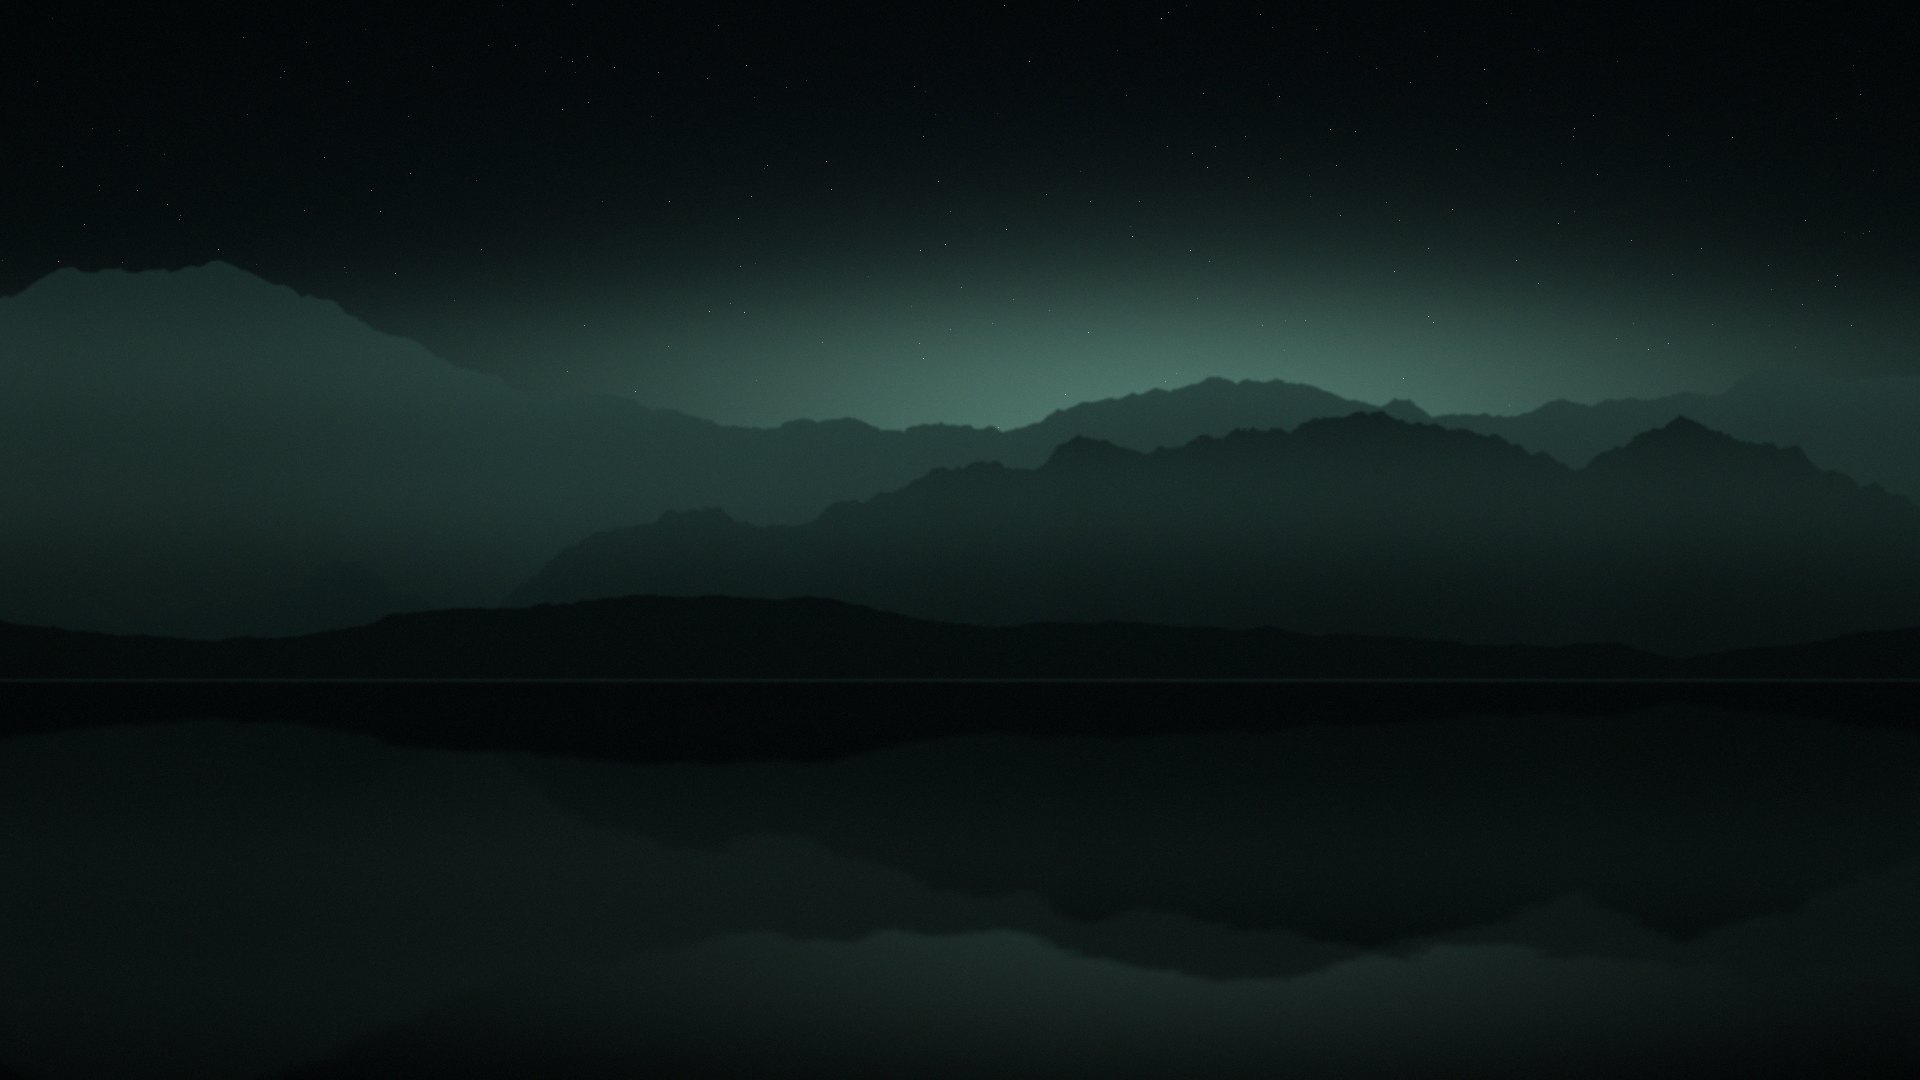
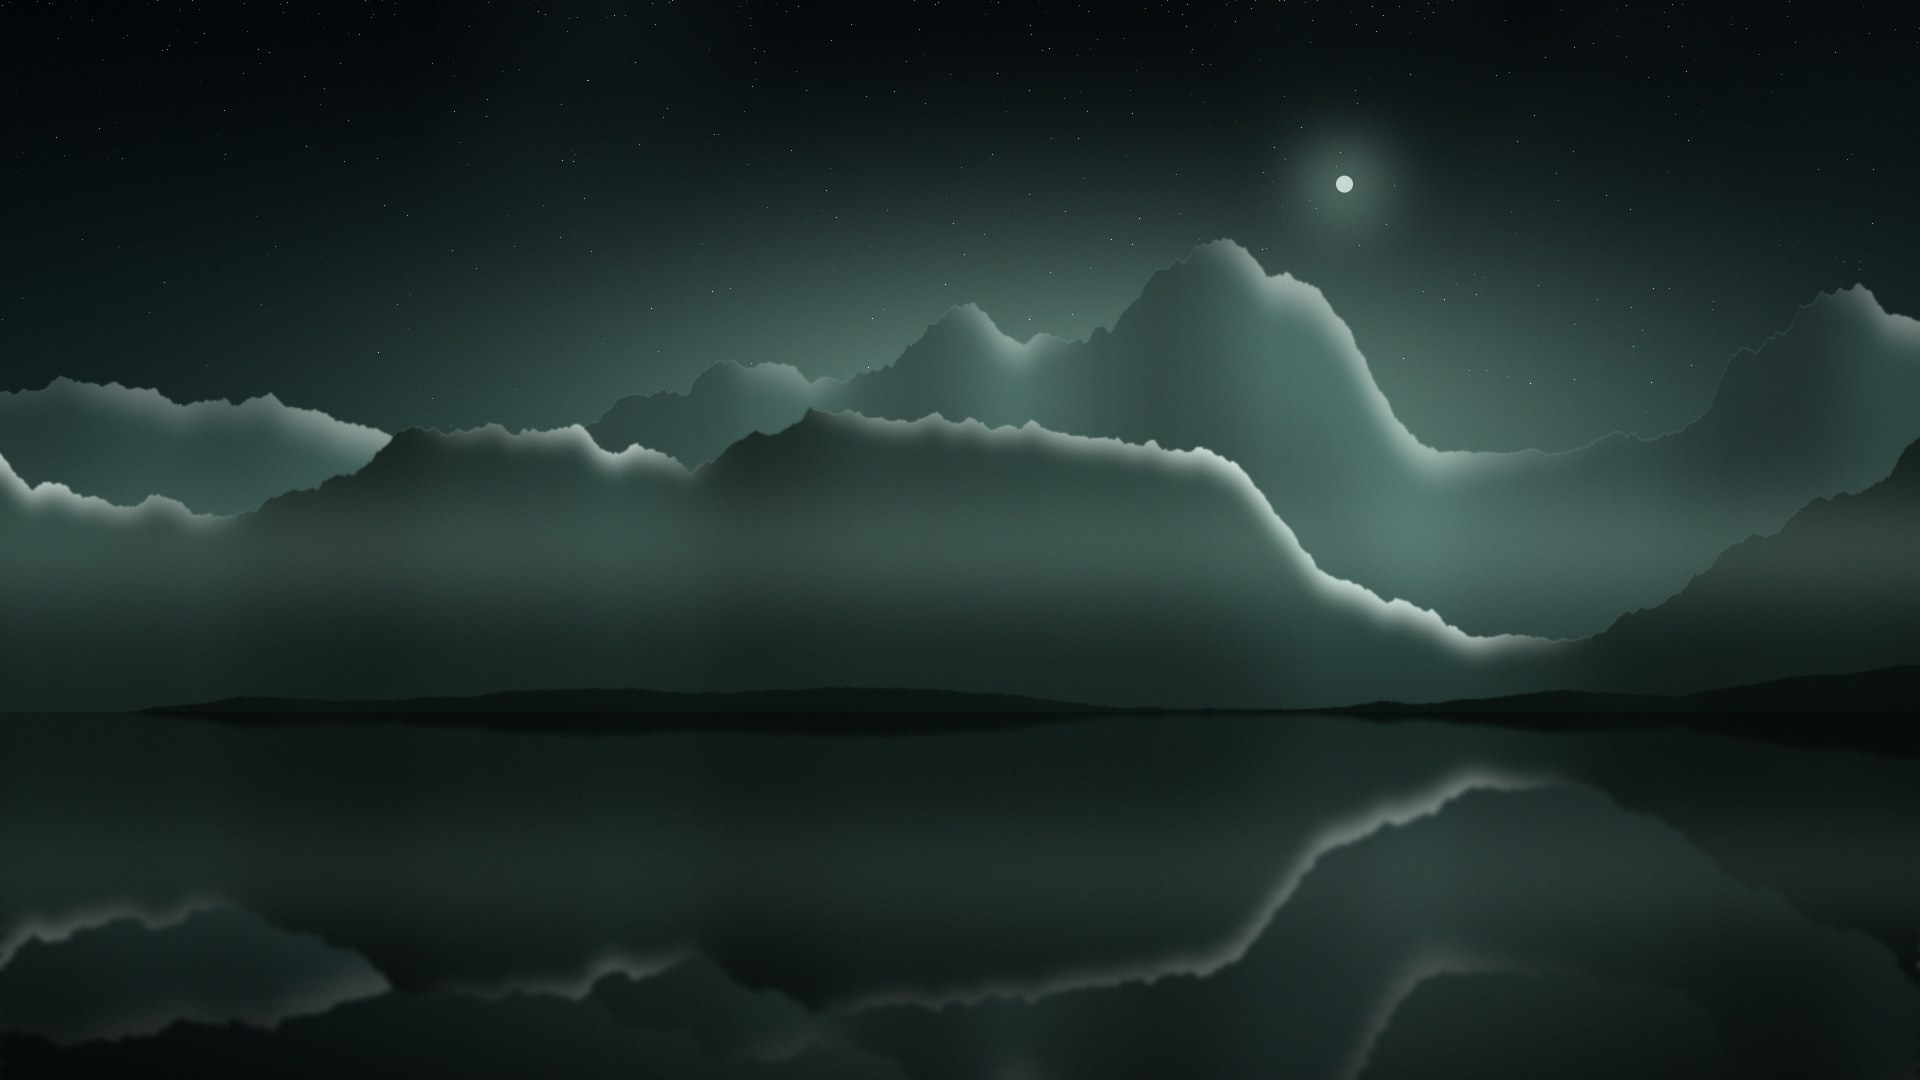
Liquid-glass clock digits and cleaner lit mountain wallpapers
The clock digits are now real glyph outlines filled with the frosted wallpaper (like the dock),
with a body tint, specular highlight, bright rim and soft shadow. New landscape renderer
(scripts/wallpapers.py) with soft lighting, snow, haze and a front ridge that rises behind the clock.

Claude-Session: https://claude.ai/code/session_01SVg1S1CaX28qFZtbsWGYU7

diff --git a/app/src/main/java/com/fares/glass/ui/GlassClock.kt b/app/src/main/java/com/fares/glass/ui/GlassClock.kt
@@ -1,0 +1,118 @@
+package com.fares.glass.ui
+
+import android.graphics.BlurMaskFilter
+import android.graphics.Matrix
+import android.graphics.Paint
+import android.graphics.RectF
+import android.graphics.Typeface
+import androidx.compose.foundation.layout.Box
+import androidx.compose.foundation.layout.size
+import androidx.compose.runtime.Composable
+import androidx.compose.runtime.getValue
+import androidx.compose.runtime.mutableStateOf
+import androidx.compose.runtime.remember
+import androidx.compose.runtime.setValue
+import androidx.compose.ui.Modifier
+import androidx.compose.ui.draw.drawWithCache
+import androidx.compose.ui.geometry.Offset
+import androidx.compose.ui.graphics.Brush
+import androidx.compose.ui.graphics.Color
+import androidx.compose.ui.graphics.FilterQuality
+import androidx.compose.ui.graphics.asComposePath
+import androidx.compose.ui.graphics.drawscope.Stroke
+import androidx.compose.ui.graphics.drawscope.clipPath
+import androidx.compose.ui.graphics.drawscope.drawIntoCanvas
+import androidx.compose.ui.graphics.nativeCanvas
+import androidx.compose.ui.layout.onGloballyPositioned
+import androidx.compose.ui.layout.positionInRoot
+import androidx.compose.ui.platform.LocalContext
+import androidx.compose.ui.platform.LocalDensity
+import androidx.compose.ui.unit.IntOffset
+import androidx.compose.ui.unit.dp
+import androidx.compose.ui.unit.sp
+import kotlin.math.roundToInt
+
+/**
+ * Lock-screen clock made of Liquid Glass. The digits are real outlines (tall, stretched rounded
+ * numerals); inside each one we draw the same pre-blurred wallpaper the dock uses, lined up with
+ * the screen, then a light body tint, a specular highlight and a bright rim, plus a soft shadow.
+ */
+@Composable
+fun GlassClock(time: String, backdrop: Backdrop, modifier: Modifier = Modifier) {
+    val context = LocalContext.current
+    val density = LocalDensity.current
+    val face = remember {
+        runCatching { Typeface.createFromAsset(context.assets, "fonts/Clock-Bold.ttf") }.getOrDefault(Typeface.DEFAULT_BOLD)
+    }
+    val stretch = 1.65f
+    val glyphs = remember(time, density.density) {
+        val paint = Paint(Paint.ANTI_ALIAS_FLAG).apply {
+            typeface = face
+            textSize = with(density) { 108.sp.toPx() }
+            letterSpacing = -0.01f
+        }
+        val p = android.graphics.Path()
+        paint.getTextPath(time, 0, time.length, 0f, 0f, p)
+        p.transform(Matrix().apply { postScale(1f, stretch) })
+        val b = RectF()
+        @Suppress("DEPRECATION") p.computeBounds(b, true)
+        p.offset(-b.left, -b.top)
+        Triple(p, b.width(), b.height())
+    }
+    val (native, w, h) = glyphs
+    val path = remember(native) { native.asComposePath() }
+    var origin by remember { mutableStateOf(Offset.Zero) }
+    val wDp = with(density) { w.toDp() }
+    val hDp = with(density) { h.toDp() }
+
+    Box(
+        modifier
+            .size(wDp, hDp)
+            .onGloballyPositioned { origin = it.positionInRoot() }
+            .drawWithCache {
+                val rim = Brush.linearGradient(
+                    0f to Color.White.copy(alpha = 0.98f),
+                    0.3f to Color.White.copy(alpha = 0.40f),
+                    0.65f to Color.White.copy(alpha = 0.20f),
+                    1f to Color.White.copy(alpha = 0.75f),
+                    start = Offset.Zero, end = Offset(size.width, size.height),
+                )
+                val body = Brush.verticalGradient(
+                    0f to Color.White.copy(alpha = 0.42f),
+                    0.5f to Color.White.copy(alpha = 0.20f),
+                    1f to Color.White.copy(alpha = 0.30f),
+                )
+                val specular = Brush.radialGradient(
+                    listOf(Color.White.copy(alpha = 0.38f), Color.Transparent),
+                    center = Offset(size.width * 0.28f, 0f), radius = size.width * 0.6f,
+                )
+                val shadow = Paint(Paint.ANTI_ALIAS_FLAG).apply {
+                    color = android.graphics.Color.argb(90, 0, 0, 0)
+                    maskFilter = BlurMaskFilter(16.dp.toPx(), BlurMaskFilter.Blur.NORMAL)
+                }
+                val drop = 7.dp.toPx()
+                val rimWidth = 1.8.dp.toPx()
+                onDrawBehind {
+                    drawIntoCanvas { c ->
+                        c.nativeCanvas.save()
+                        c.nativeCanvas.translate(0f, drop)
+                        c.nativeCanvas.drawPath(native, shadow)
+                        c.nativeCanvas.restore()
+                    }
+                    clipPath(path) {
+                        backdrop.frosted?.let { img ->
+                            drawImage(
+                                img,
+                                dstOffset = IntOffset(-origin.x.roundToInt(), -origin.y.roundToInt()),
+                                dstSize = backdrop.screen,
+                                filterQuality = FilterQuality.Low,
+                            )
+                        }
+                        drawRect(body)
+                        drawRect(specular)
+                    }
+                    drawPath(path, rim, style = Stroke(rimWidth))
+                }
+            },
+    )
+}

diff --git a/app/src/main/java/com/fares/glass/ui/Overlays.kt b/app/src/main/java/com/fares/glass/ui/Overlays.kt
@@ -158,7 +158,7 @@ fun rememberClock(now: Long): Pair<String, String> {
 
 /** Home header: greeting, large time and date. */
 @Composable
-fun HomeHeader(name: String, modifier: Modifier) {
+fun HomeHeader(name: String, backdrop: Backdrop, modifier: Modifier) {
     val now = rememberNow()
     val hour = remember(now / 60000) { java.util.Calendar.getInstance().get(java.util.Calendar.HOUR_OF_DAY) }
     val (plain, named) = when (hour) {
@@ -170,32 +170,9 @@ fun HomeHeader(name: String, modifier: Modifier) {
     val (time, date) = rememberClock(now)
     // Lock-screen style: a quiet date line over a tall, stretched rounded clock made of glass
     // (translucent frosted fill, bright rim). The wallpaper's front mountains are drawn over it.
-    val stretch = 1.65f
-    val clockStyle = TextStyle(
-        fontFamily = Typo.clock, fontWeight = FontWeight.Bold, fontSize = 108.sp, letterSpacing = (-1).sp,
-        lineHeight = 108.sp, lineHeightStyle = LineHeightStyle(LineHeightStyle.Alignment.Center, LineHeightStyle.Trim.Both),
-    )
     Column(modifier, horizontalAlignment = Alignment.CenterHorizontally) {
         BasicText(date, style = txt(white.copy(alpha = 0.92f), 19.sp, FontWeight.SemiBold).copy(shadow = headerShadow, letterSpacing = 0.2.sp))
-        Box(
-            Modifier.layout { measurable, constraints ->
-                val p = measurable.measure(constraints)
-                layout(p.width, (p.height * stretch).roundToInt()) {
-                    p.placeWithLayer(0, 0) { scaleY = stretch; transformOrigin = TransformOrigin(0.5f, 0f) }
-                }
-            },
-            contentAlignment = Alignment.Center,
-        ) {
-            BasicText(time, style = clockStyle.copy(
-                brush = Brush.verticalGradient(listOf(
-                    Color(0xFFF6FBF9).copy(alpha = 0.93f), Color(0xFFE0EEE9).copy(alpha = 0.80f), Color(0xFFC4DAD2).copy(alpha = 0.70f),
-                )),
-            ))
-            BasicText(time, style = clockStyle.copy(
-                brush = Brush.verticalGradient(listOf(Color.White, Color.White.copy(alpha = 0.18f), Color.White.copy(alpha = 0.55f))),
-                drawStyle = Stroke(width = 1.8f),
-            ))
-        }
+        GlassClock(time, backdrop, Modifier.padding(top = 10.dp))
     }
 }
 

diff --git a/app/src/main/java/com/fares/glass/ui/HomeScreen.kt b/app/src/main/java/com/fares/glass/ui/HomeScreen.kt
@@ -267,7 +267,7 @@ fun HomeScreen(
         val dockAlpha by animateFloatAsState(if (row == 0) 1f else 0f, tween(300), label = "dock")
         val headerAlpha by animateFloatAsState(if (row == 0) 1f else 0f, tween(300), label = "header")
         if (headerAlpha > 0f) {
-            HomeHeader(repo.userName, Modifier.fillMaxWidth().padding(top = 62.dp).graphicsLayer { alpha = headerAlpha })
+            HomeHeader(repo.userName, backdrop, Modifier.fillMaxWidth().padding(top = 62.dp).graphicsLayer { alpha = headerAlpha })
             if (state.mode != Mode.Control) {
                 TopBar(
                     backdrop, top, if (state.mode == Mode.Top) state.topIndex else -1,

diff --git a/scripts/wallpapers.py b/scripts/wallpapers.py
@@ -1,0 +1,133 @@
+"""Original landscape wallpapers: lit fractal mountains, snow, haze, stars, still-water reflections.
+Also writes a cut-out of the front mountains (for the clock depth effect)."""
+import numpy as np, sys
+from PIL import Image, ImageFilter
+W,H=1920,1080
+yy,xx=np.mgrid[0:H,0:W].astype(np.float32)
+
+def col(h): h=h.lstrip('#'); return np.array([int(h[i:i+2],16) for i in (0,2,4)],np.float32)
+def mix(a,b,t): return a+(b-a)*t
+
+def fbm(seed,scale,oct=6,gain=0.5,w=W,h=H):
+    rng=np.random.default_rng(seed); out=np.zeros((h,w),np.float32); amp=1; tot=0; s=scale
+    for o in range(oct):
+        gw,gh=max(2,int(w/s)+2),max(2,int(h/s)+2)
+        g=rng.random((gh,gw)).astype(np.float32)
+        im=Image.fromarray(g).resize((w,h),Image.BICUBIC)
+        out+=np.asarray(im)*amp; tot+=amp; amp*=gain; s/=2
+    return out/tot
+
+def ridge_line(seed,base,amp,rough=0.52,peaks=1.0):
+    rng=np.random.default_rng(seed); n=2**10+1; y=np.zeros(n)
+    y[0],y[-1]=rng.normal(0,1,2); step=n-1; sc=1.0
+    while step>1:
+        h=step//2
+        for i in range(h,n-1,step): y[i]=(y[i-h]+y[i+h])/2+rng.normal(0,sc)
+        step=h; sc*=rough
+    y=(y-y.min())/(y.max()-y.min()+1e-9); y=y**peaks
+    return np.interp(np.linspace(0,n-1,W),np.arange(n),y).astype(np.float32)*-amp*H+base*H
+
+def render(name, P, seed, fg_layer):
+    rng=np.random.default_rng(seed)
+    t=(yy/H)[...,None]
+    sky=mix(col(P['sky0']),col(P['sky1']),np.clip(t/0.62,0,1)**1.3)
+    # glow (sun / moon haze)
+    gx,gy,gr,gs=P['glow']
+    d=np.sqrt(((xx-gx*W)/W)**2+((yy-gy*H)/H*1.6)**2)
+    sky=sky+(col(P['glowc'])-sky)*(np.exp(-(d/gr)**2)*gs)[...,None]
+    # soft clouds
+    if P.get('clouds',0)>0:
+        c=fbm(seed+5,520,5); c=np.clip((c-0.55)*2.2,0,1)*np.clip(1-yy/(H*0.55),0,1)
+        sky=sky+(col(P['cloudc'])-sky)*(c*P['clouds'])[...,None]
+    img=sky.copy()
+    if P.get('stars',0):
+        n=P['stars']; sx=rng.integers(0,W,n); sy=(rng.random(n)**1.8*H*0.5).astype(int); b=rng.uniform(30,190,n)
+        for x,y,v in zip(sx,sy,b): img[y,x]+=v; 
+        img=np.minimum(img,255)
+    if P.get('moon'):
+        mx,my,mr=P['moon']; md=np.sqrt((xx-mx*W)**2+(yy-my*H)**2)
+        img=img+(np.array([235,240,236],np.float32)-img)*np.clip(mr-md,0,1)[...,None]
+        img=img+(col(P['glowc'])-img)*(np.exp(-(md/(mr*6))**2)*0.35)[...,None]
+    light=np.array(P['light'],np.float32); light/=np.linalg.norm(light)
+    ridges=[]
+    nL=len(P['layers'])
+    for i,L in enumerate(P['layers']):
+        r=ridge_line(seed*13+i,L['base'],L['amp'],L.get('rough',0.52),L.get('peaks',1.0))
+        if L.get('centre'): r=r-L['centre']*H*np.exp(-((np.arange(W)/W-0.5)/0.16)**2).astype(np.float32)
+        ridges.append(r)
+        inside=yy>=r[None,:]
+        depth=np.clip((yy-r[None,:])/(H*max(L['amp'],0.05)),0,4)
+        # clean faceted light: faces turned towards the light are brighter, fading with depth
+        k_=np.exp(-np.arange(-90,91)**2/(2*30.0**2)); k_/=k_.sum(); sl=np.gradient(np.convolve(np.pad(r,90,mode='edge'),k_,mode='valid'))*3
+        face=np.clip(-sl*light[0]*0.9,-1,1)[None,:]
+        lam=np.clip(0.5+face*np.exp(-depth*1.4),0,1)
+        lam=np.asarray(Image.fromarray((lam*255).astype(np.uint8)).filter(ImageFilter.GaussianBlur(26)),np.float32)/255
+        base=col(L['c'])
+        lit=base*(0.62+0.75*lam[...,None])*(1-0.25*np.clip(depth,0,1)[...,None])
+        if L.get('snow',0)>0:
+            band=np.exp(-depth/(L['snow']*0.35))
+            sn=np.clip(band*(0.35+lam)*1.3-0.55,0,1)
+            sn=np.asarray(Image.fromarray((sn*255).astype(np.uint8)).filter(ImageFilter.GaussianBlur(8)),np.float32)/255
+            lit=mix(lit,col(P['snowc'])*(0.55+0.55*lam[...,None]),sn[...,None])
+        # rim light on the crest from the glow
+        crest=np.exp(-((yy-r[None,:])/1.6)**2)*L.get('rim',0.0)*0.6
+        lit=lit+(col(P['glowc'])-lit)*crest[...,None]
+        # atmospheric perspective: far layers fade into the sky colour behind them
+        haze=L.get('haze',0)
+        lit=mix(lit,sky,haze*np.clip(1-depth*0.6,0.4,1)[...,None])
+        m=np.asarray(Image.fromarray((inside*255).astype(np.uint8)).filter(ImageFilter.GaussianBlur(0.9)),np.float32)[...,None]/255
+        img=img*(1-m)+lit*m
+        # mist pooling in the valley behind the next layer
+        if L.get('mist',0)>0:
+            mb=np.exp(-((yy-(r.mean()+H*0.05))/(H*0.06))**2)*(0.6+0.4*fbm(seed+i*7,700,2))*L['mist']*1.1
+            img=img+(col(P['mistc'])-img)*np.clip(mb,0,1)[...,None]
+    if P.get('water'):
+        hz=int(P['water']*H)
+        top=img[:hz].copy(); refl=top[::-1][:H-hz]
+        out=np.empty_like(refl); ph=rng.uniform(0,6)
+        for row in range(refl.shape[0]):
+            k=row/refl.shape[0]
+            out[row]=np.roll(refl[row],int(np.sin(row*0.35+ph)*(0.3+3*k)),axis=0)
+        out=np.asarray(Image.fromarray(np.clip(out,0,255).astype(np.uint8)).filter(ImageFilter.GaussianBlur(2.6)),np.float32)
+        k=np.linspace(0,1,out.shape[0],dtype=np.float32)[:,None,None]
+        out=mix(out*0.78,col(P['sky0'])*0.6,np.clip(k*0.9,0,1)*0.55)
+        # faint ripple sparkle
+        img[hz:]=out
+    # vignette + grain
+    v=1-0.42*(((xx/W-0.5)**2)*1.2+((yy/H-0.42)**2)*1.6)
+    img=img*np.clip(v,0.5,1)[...,None]+rng.normal(0,1.8,img.shape)
+    out8=np.clip(img,0,255).astype(np.uint8)
+    Image.fromarray(out8).save(name+'.jpg',quality=88,optimize=True)
+    r=ridges[fg_layer]
+    m=Image.fromarray(((yy>=r[None,:]-0.5)*255).astype(np.uint8)).filter(ImageFilter.GaussianBlur(1.2))
+    rgba=Image.fromarray(out8).convert('RGBA'); rgba.putalpha(m)
+    rgba.resize((1280,720),Image.LANCZOS).save(name+'_fg.webp','WEBP',quality=84,method=6)
+    print(name,'front ridge: top',int(r.min()),'centre min',int(r[700:1220].min()))
+
+PRESETS={
+ 'lake':dict(sky0='#04090b',sky1='#1d3a35',glowc='#a8d8c8',glow=(0.58,0.40,0.32,0.55),cloudc='#3e5f58',clouds=0.25,
+   stars=500,moon=(0.70,0.17,9),light=(-0.6,-0.7,0.5),snowc='#e8f2ee',mistc='#9fc7bb',water=0.66,
+   layers=[dict(c='#3c5a55',base=0.42,amp=0.20,snow=0.55,haze=0.45,rim=0.5,detail=70,peaks=1.3),
+           dict(c='#20332f',base=0.60,amp=0.20,snow=0.35,haze=0.12,rim=0.35,mist=0.25,detail=90,peaks=1.2,centre=0.17),
+           dict(c='#0d1715',base=0.665,amp=0.05,haze=0.0,detail=60)]),
+ 'ridge':dict(sky0='#02050d',sky1='#2a4170',glowc='#b9cdf5',glow=(0.32,0.46,0.34,0.65),cloudc='#4a5f8a',clouds=0.3,
+   stars=650,light=(-0.7,-0.6,0.5),snowc='#eef3ff',mistc='#8ea4d0',
+   layers=[dict(c='#4a5f8c',base=0.40,amp=0.22,snow=0.7,haze=0.5,rim=0.6,detail=60,peaks=1.4),
+           dict(c='#283a5e',base=0.60,amp=0.24,snow=0.4,haze=0.2,rim=0.4,mist=0.3,detail=80,peaks=1.2),
+           dict(c='#141f36',base=0.80,amp=0.16,haze=0.05,mist=0.2,detail=80),
+           dict(c='#070b15',base=0.95,amp=0.10,detail=80)]),
+ 'dusk':dict(sky0='#150c1a',sky1='#d3846a',glowc='#ffc58f',glow=(0.52,0.62,0.30,0.85),cloudc='#c67a74',clouds=0.45,
+   stars=0,light=(0.2,-0.8,0.6),snowc='#ffd9c0',mistc='#d79a8a',water=0.68,
+   layers=[dict(c='#6a4458',base=0.50,amp=0.18,snow=0.5,haze=0.45,rim=0.7,detail=70,peaks=1.3),
+           dict(c='#3a2232',base=0.63,amp=0.16,snow=0.25,haze=0.15,rim=0.6,detail=80,peaks=1.15,centre=0.19),
+           dict(c='#1a0f17',base=0.685,amp=0.05,detail=60)]),
+ 'mist':dict(sky0='#0f1513',sky1='#5c6e66',glowc='#dfe9e3',glow=(0.5,0.38,0.5,0.4),cloudc='#7d8f87',clouds=0.3,
+   stars=0,light=(-0.5,-0.8,0.5),snowc='#f0f5f2',mistc='#c9d6cf',
+   layers=[dict(c='#55665f',base=0.42,amp=0.18,snow=0.5,haze=0.6,rim=0.3,mist=0.5,detail=70,peaks=1.3),
+           dict(c='#33423c',base=0.62,amp=0.16,snow=0.3,haze=0.35,rim=0.25,mist=0.5,detail=80,peaks=1.2,centre=0.25),
+           dict(c='#1c2622',base=0.78,amp=0.16,haze=0.15,mist=0.4,detail=80),
+           dict(c='#0b100e',base=0.94,amp=0.10,detail=80)]),
+}
+SEEDS={'lake':3,'ridge':8,'dusk':11,'mist':19}
+FG={'lake':1,'ridge':1,'dusk':1,'mist':1}
+for n in (sys.argv[1:] or PRESETS): render(n,PRESETS[n],SEEDS[n],FG[n])
